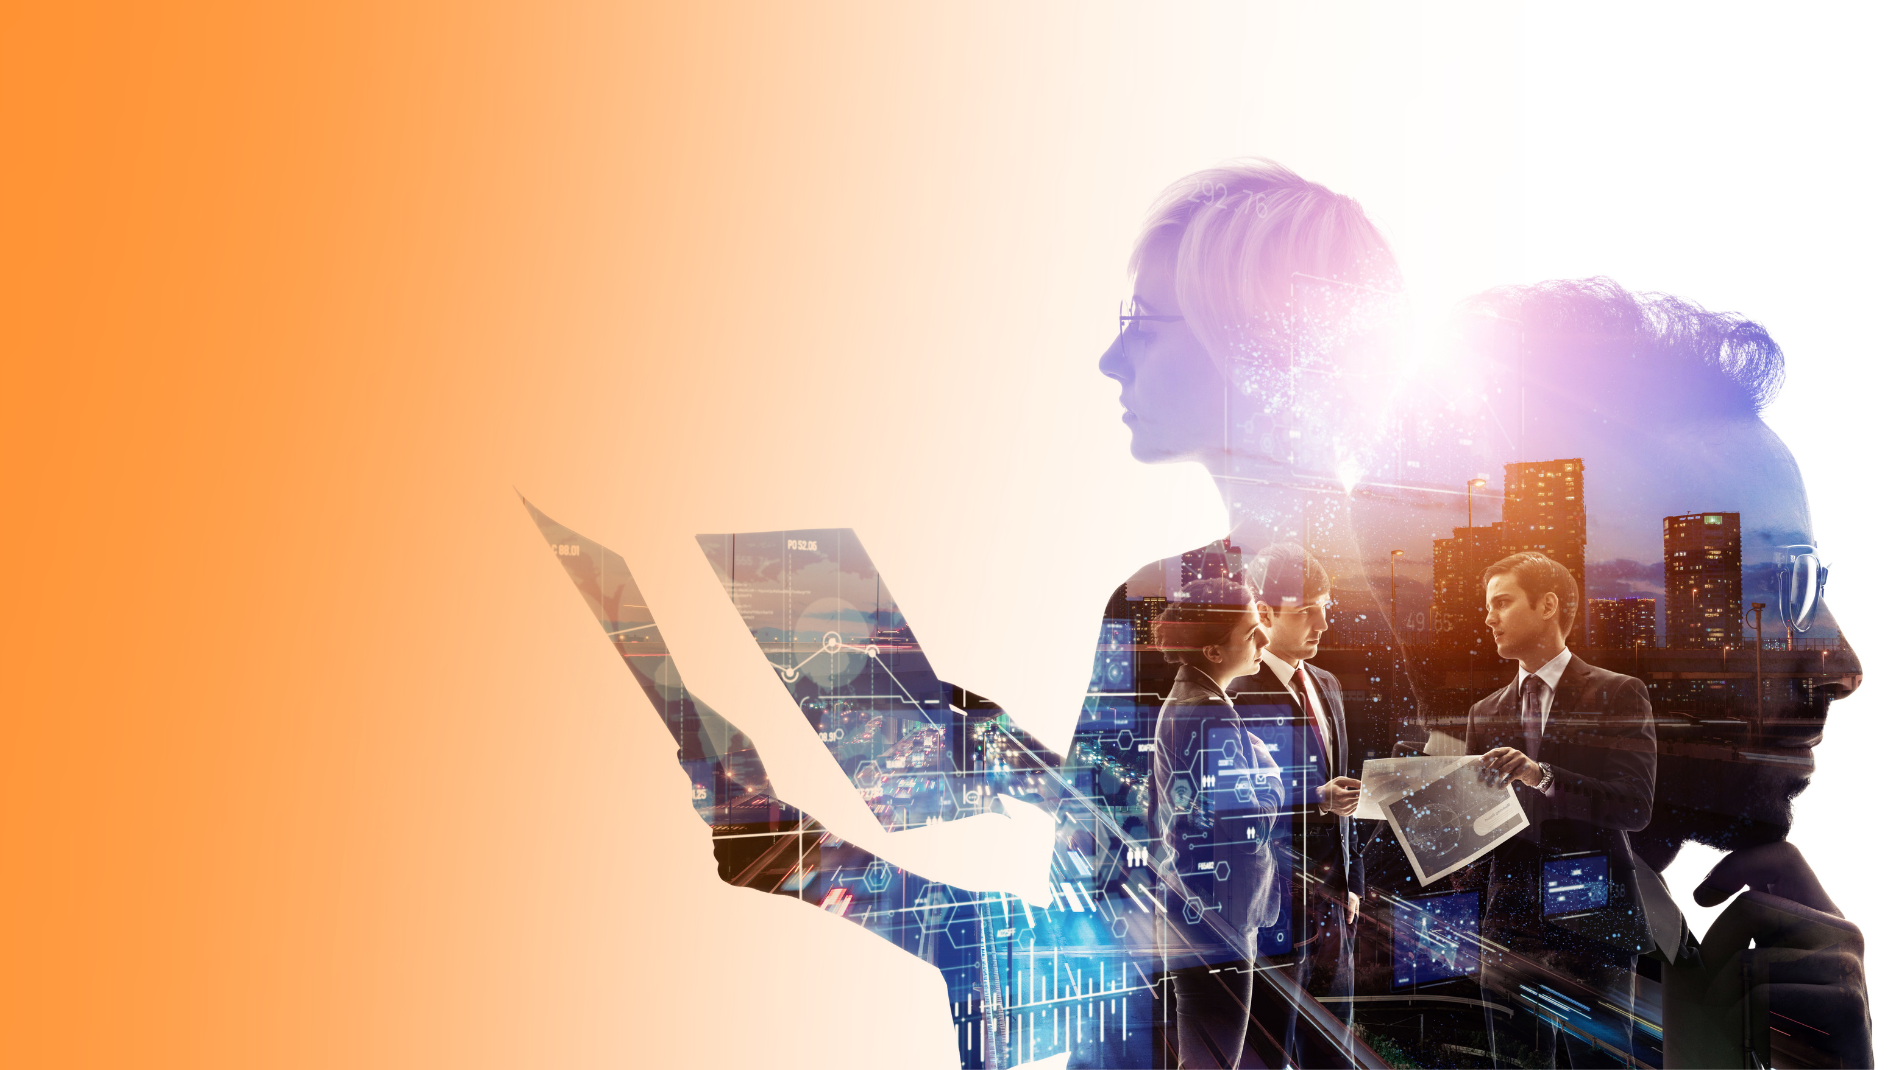
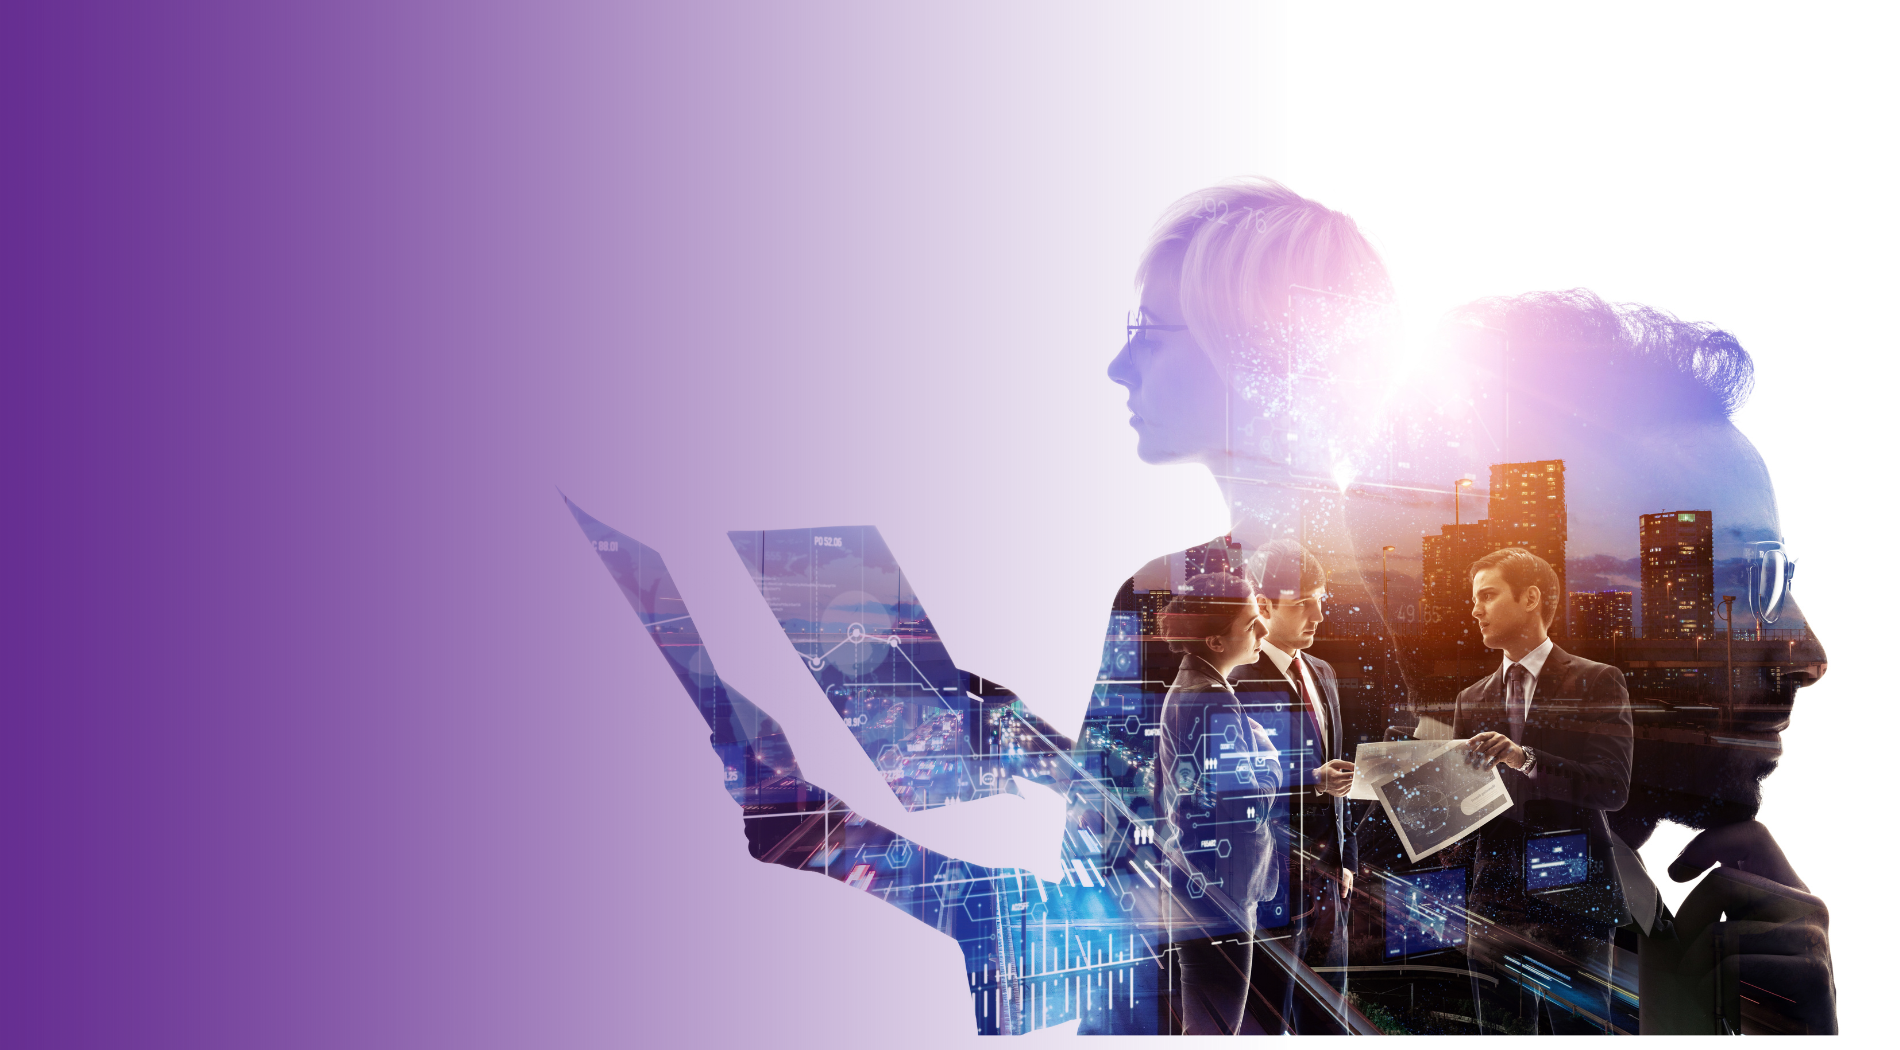
Add files via upload

diff --git a/PROYECTO WEB/Estilos/Styles.css b/PROYECTO WEB/Estilos/Styles.css
@@ -16,45 +16,47 @@ body{
 }
 
 .logo-img{
-    width: 180px;
-    position: fixed;
-    margin-top: 0;
-    float:left;
-    display: flex;
+    width: 130px;
+    margin:0;
+    padding:0px;
+    vertical-align:middle;
+    margin-right: 450px;
 }
 .header{
+    position: fixed;
+    top: 0;
     width: 100%;
-    position: sticky;
-    height: 72px;
     color: white;
+    z-index: 1;
 }
 .navegacion{
-    position:fixed;
+    position: fixed;
     top: 0;
     width: 100%;
     background:white
 }
 .navegacion ul{
+    margin: 0%;
+    padding: 0%;
     list-style: none;
-    text-align: right;
-    margin: 0;
+    width: 100%;
+    display:block;
+    text-align: center;
 }
-
 .menu > li{
+    height: 75px;
+    margin: 10px;
     position: relative;
     display: inline-block;
-    text-align:right;
-    align-content: center;
-    height: 80px;
 }
 .menu > li > a{
+    position: relative;
     font-size: 18px;
-    display:block;
+    display: block;
     color: black;
     text-decoration: none;
     padding: 4px;
     margin: 23px;
-    position: relative;
 }
 .menu li a::after{
     content: "";
@@ -86,13 +88,13 @@ body{
     box-shadow: 0 12px 16px 0 rgba(0,0,0,0.24), 0 17px 50px 0 rgba(0,0,0,0.19);
 }
 .submenu li a{
-    display: block;
+    display:block;
+    position: relative;
     text-align: center;
     color: black;
     text-decoration: none;
     padding: 4px;
     margin: 23px;
-    position: relative;
 }
 .menu li:hover .submenu{
     visibility: visible;
@@ -101,22 +103,23 @@ body{
 
 
 #home{
+    margin-top: 80px;
     background-color: gray;
     text-align: left;
-    height: 750px;
+    height: 700px;
 }
 .tituloslogan{
     font-weight: 900;
     font-size: 65px;
     color: white;
-    padding-top: 200px;
-    padding-right: 500px;
-    padding-left: 80px;
+    padding-top: 140px;
+    padding-right: 600px;
+    padding-left: 160px;
 }
 .background-img{
-    background-image: url("../imagenes/fondo7.png");
+    background-image: url("../imagenes/fondo8.png");
     width: 100%;
-    height: 750px;
+    height: 700px;
     background-repeat: no-repeat;
     background-size:cover;
     background-attachment: fixed;
@@ -257,7 +260,7 @@ body{
 }
 .sobrenosotros{
     font-weight: 900;
-    font-size: 60px;
+    font-size: 65px;
     color: white;
     padding-top: 200px;
     padding-left: 80px;
@@ -265,10 +268,10 @@ body{
 }
 .infonosotros{
     font-weight: 700;
-    font-size: 30px;
+    font-size: 35px;
     padding-top: 30px;
     padding-left: 80px;
-    padding-right: 700px;
+    padding-right: 600px;
 }
 .background2-img{
     background-image: url("../imagenes/fondo2.png");
@@ -329,6 +332,7 @@ body{
     height: 400px;
     line-height: 80px;
     padding-bottom: 30px;
+    z-index: -1;
 }
 .cbc-img{
     width: 260px;
@@ -343,6 +347,7 @@ body{
     border-color: white;
     border-width: 3px;
     filter: grayscale(100%);
+
 }
 .cbc-img:hover{
     -webkit-transition: all 0.4s;

diff --git a/PROYECTO WEB/Home.html b/PROYECTO WEB/Home.html
@@ -8,8 +8,8 @@
     <body>
       <header id="header">
         <nav class="navegacion">
-            <img src="imagenes/Logo.png" alt="logo" class="logo-img">
           <ul class="menu">
+            <li><img src="imagenes/Logo.png" alt="logo" class="logo-img"></li>
             <li><a href="#home">Home</a></li>
             <li><a href="./About%20Us.html">About Us</a></li>
             <li><a href="#servicios">Servicios</a>
@@ -54,7 +54,7 @@
 
     <section id="nosotros">
       <div class="background2-img">
-        <h1 class="sobrenosotros"> About Us</h1>
+        <h1 class="sobrenosotros">About Us</h1>
         <div class="infonosotros">
           <p>Ayudamos a Due&ntilde;os, Ceos y Gerentes de empresas a pensar, crear y ejecutar acciones a mediano y largo plazo para lograr su prop&oacutesito.</p>
         </div>
@@ -78,7 +78,7 @@
       <h2><img src="imagenes/lego.png" alt="lego2" class="lego-img"></h2>
   </div>
     <div class="ultimologo">
-      <hs><img src="imagenes/scrum.png" alt="scrum" class="scrum-img"></hs>
+      <h2><img src="imagenes/scrum.png" alt="scrum" class="scrum-img"></h2>
     </div>
     </div>
     </section>
